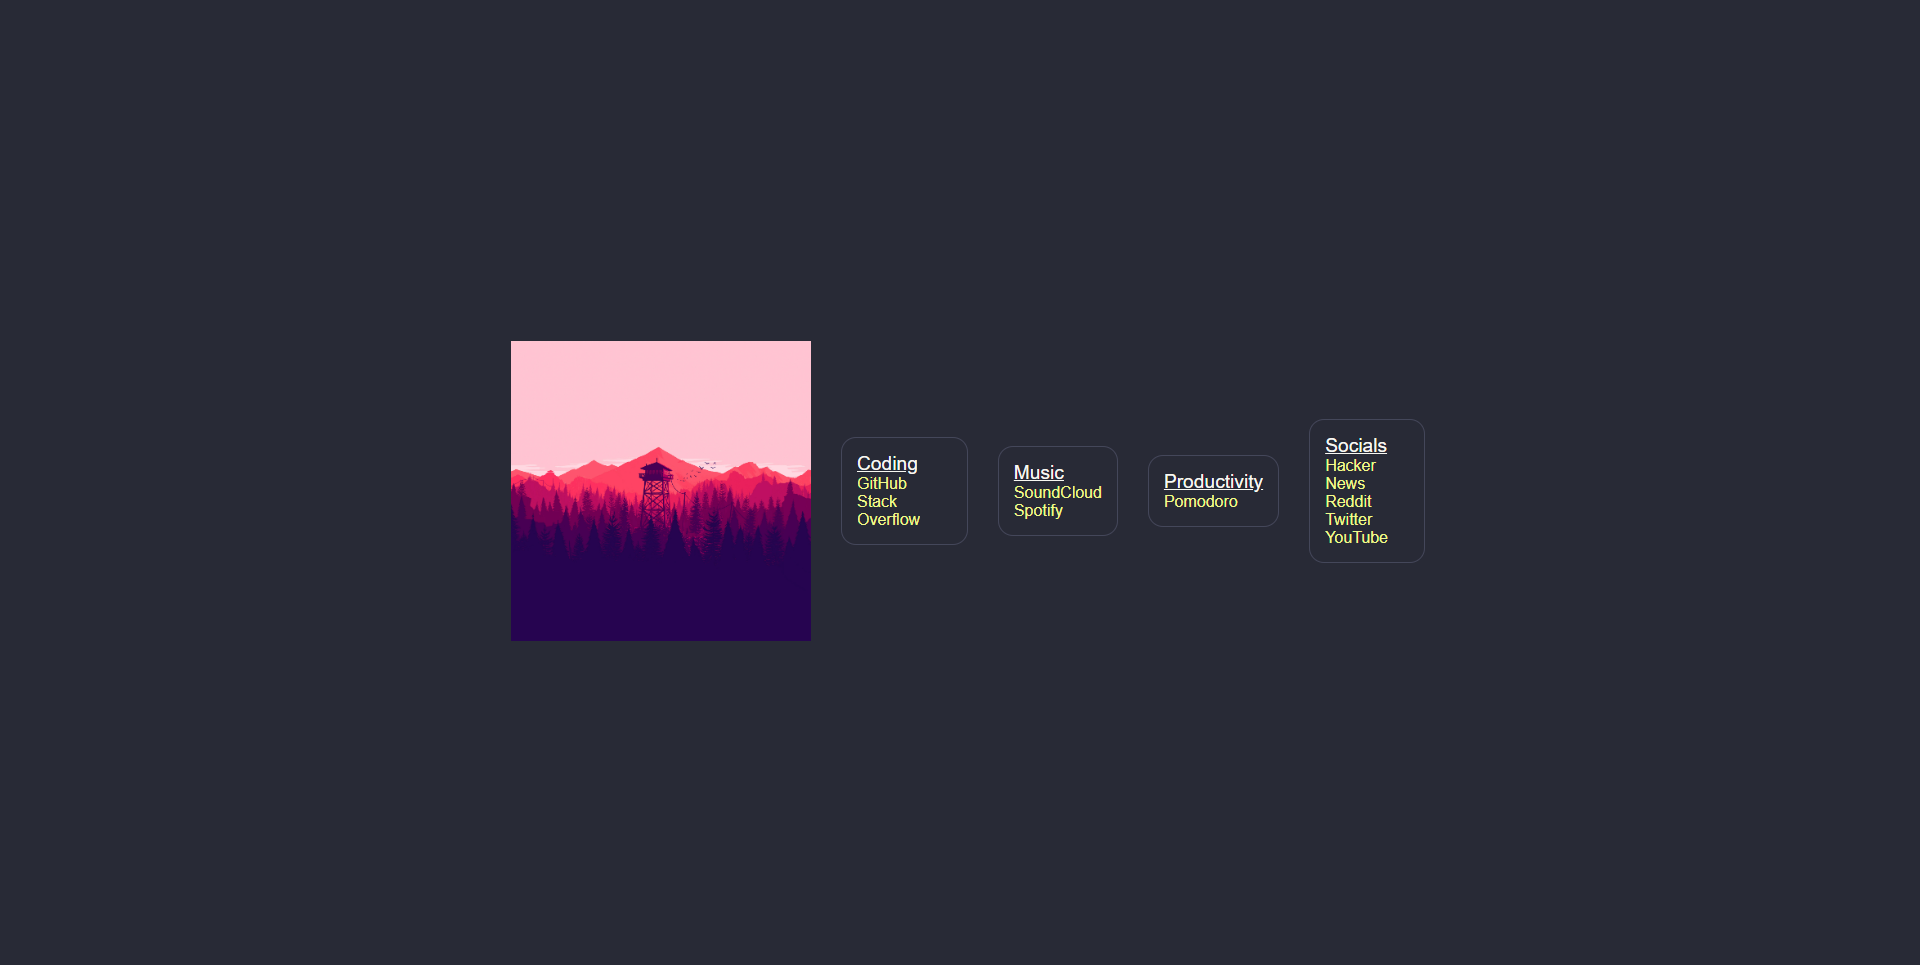
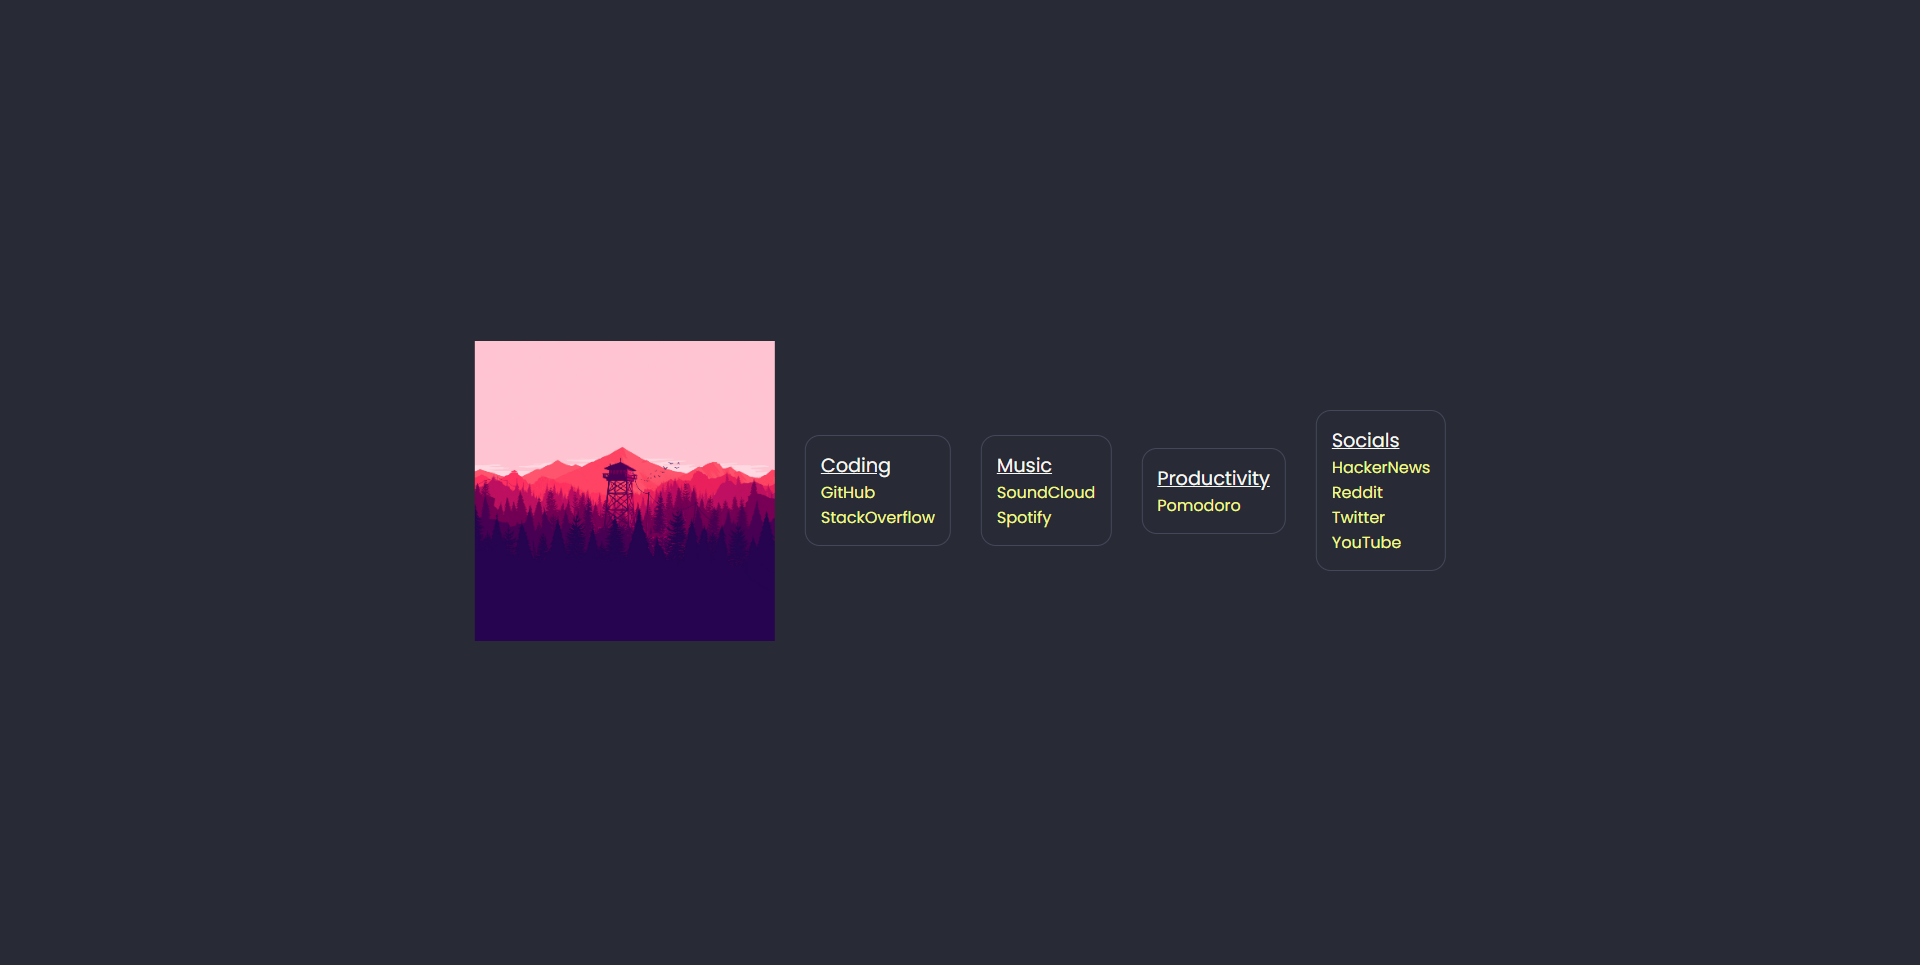
Add font style, remove line breaks, and update preview image

Changed region(s): [[0.25, 0.342, 0.6562, 0.6839], [0.6875, 0.4352, 0.75, 0.5907]]

diff --git a/index.html b/index.html
@@ -5,16 +5,20 @@
     <title>Startpage</title>
     <meta charset="utf-8">
     <link rel="stylesheet" href="css/styles.css">
+
+    <link rel="preconnect" href="https://fonts.googleapis.com">
+    <link rel="preconnect" href="https://fonts.gstatic.com" crossorigin>
+    <link href="https://fonts.googleapis.com/css2?family=Poppins&display=swap" rel="stylesheet">
 </head>
 
 <body>
     <div class="container">
         <img src="img/tower.jpg" alt="Placeholder Image" width="300px" height="auto">
-        
+
         <div class="bookmark-container">
             <p class="header">Coding</p>
             <a class="bookmark" href="https://github.com/">GitHub</a>
-            <a class="bookmark" href="https://stackoverflow.com/">Stack Overflow</a>
+            <a class="bookmark" href="https://stackoverflow.com/">StackOverflow</a>
         </div>
 
         <div class="bookmark-container">
@@ -30,7 +34,7 @@
 
         <div class="bookmark-container">
             <p class="header">Socials</p>
-            <a class="bookmark" href="https://news.ycombinator.com/">Hacker News</a>
+            <a class="bookmark" href="https://news.ycombinator.com/">HackerNews</a>
             <a class="bookmark" href="https://www.reddit.com/">Reddit</a>
             <a class="bookmark" href="https://twitter.com/">Twitter</a>
             <a class="bookmark" href="https://www.youtube.com/">YouTube</a>

diff --git a/css/styles.css b/css/styles.css
@@ -1,12 +1,10 @@
 body {
     background-color: #282a36;
-    font-family: sans-serif;
-
+    font-family: 'Poppins', sans-serif;
     display: flex;
     justify-content: center;
     align-items: center;
     position: absolute;
-
     top: 50%;
     left: 50%;
     transform: translate(-50%, -50%);
@@ -18,7 +16,7 @@ body {
 }
 
 .container img {
-    margin: 15px;
+    padding-right: 15px;
 }
 
 .bookmark-container {
